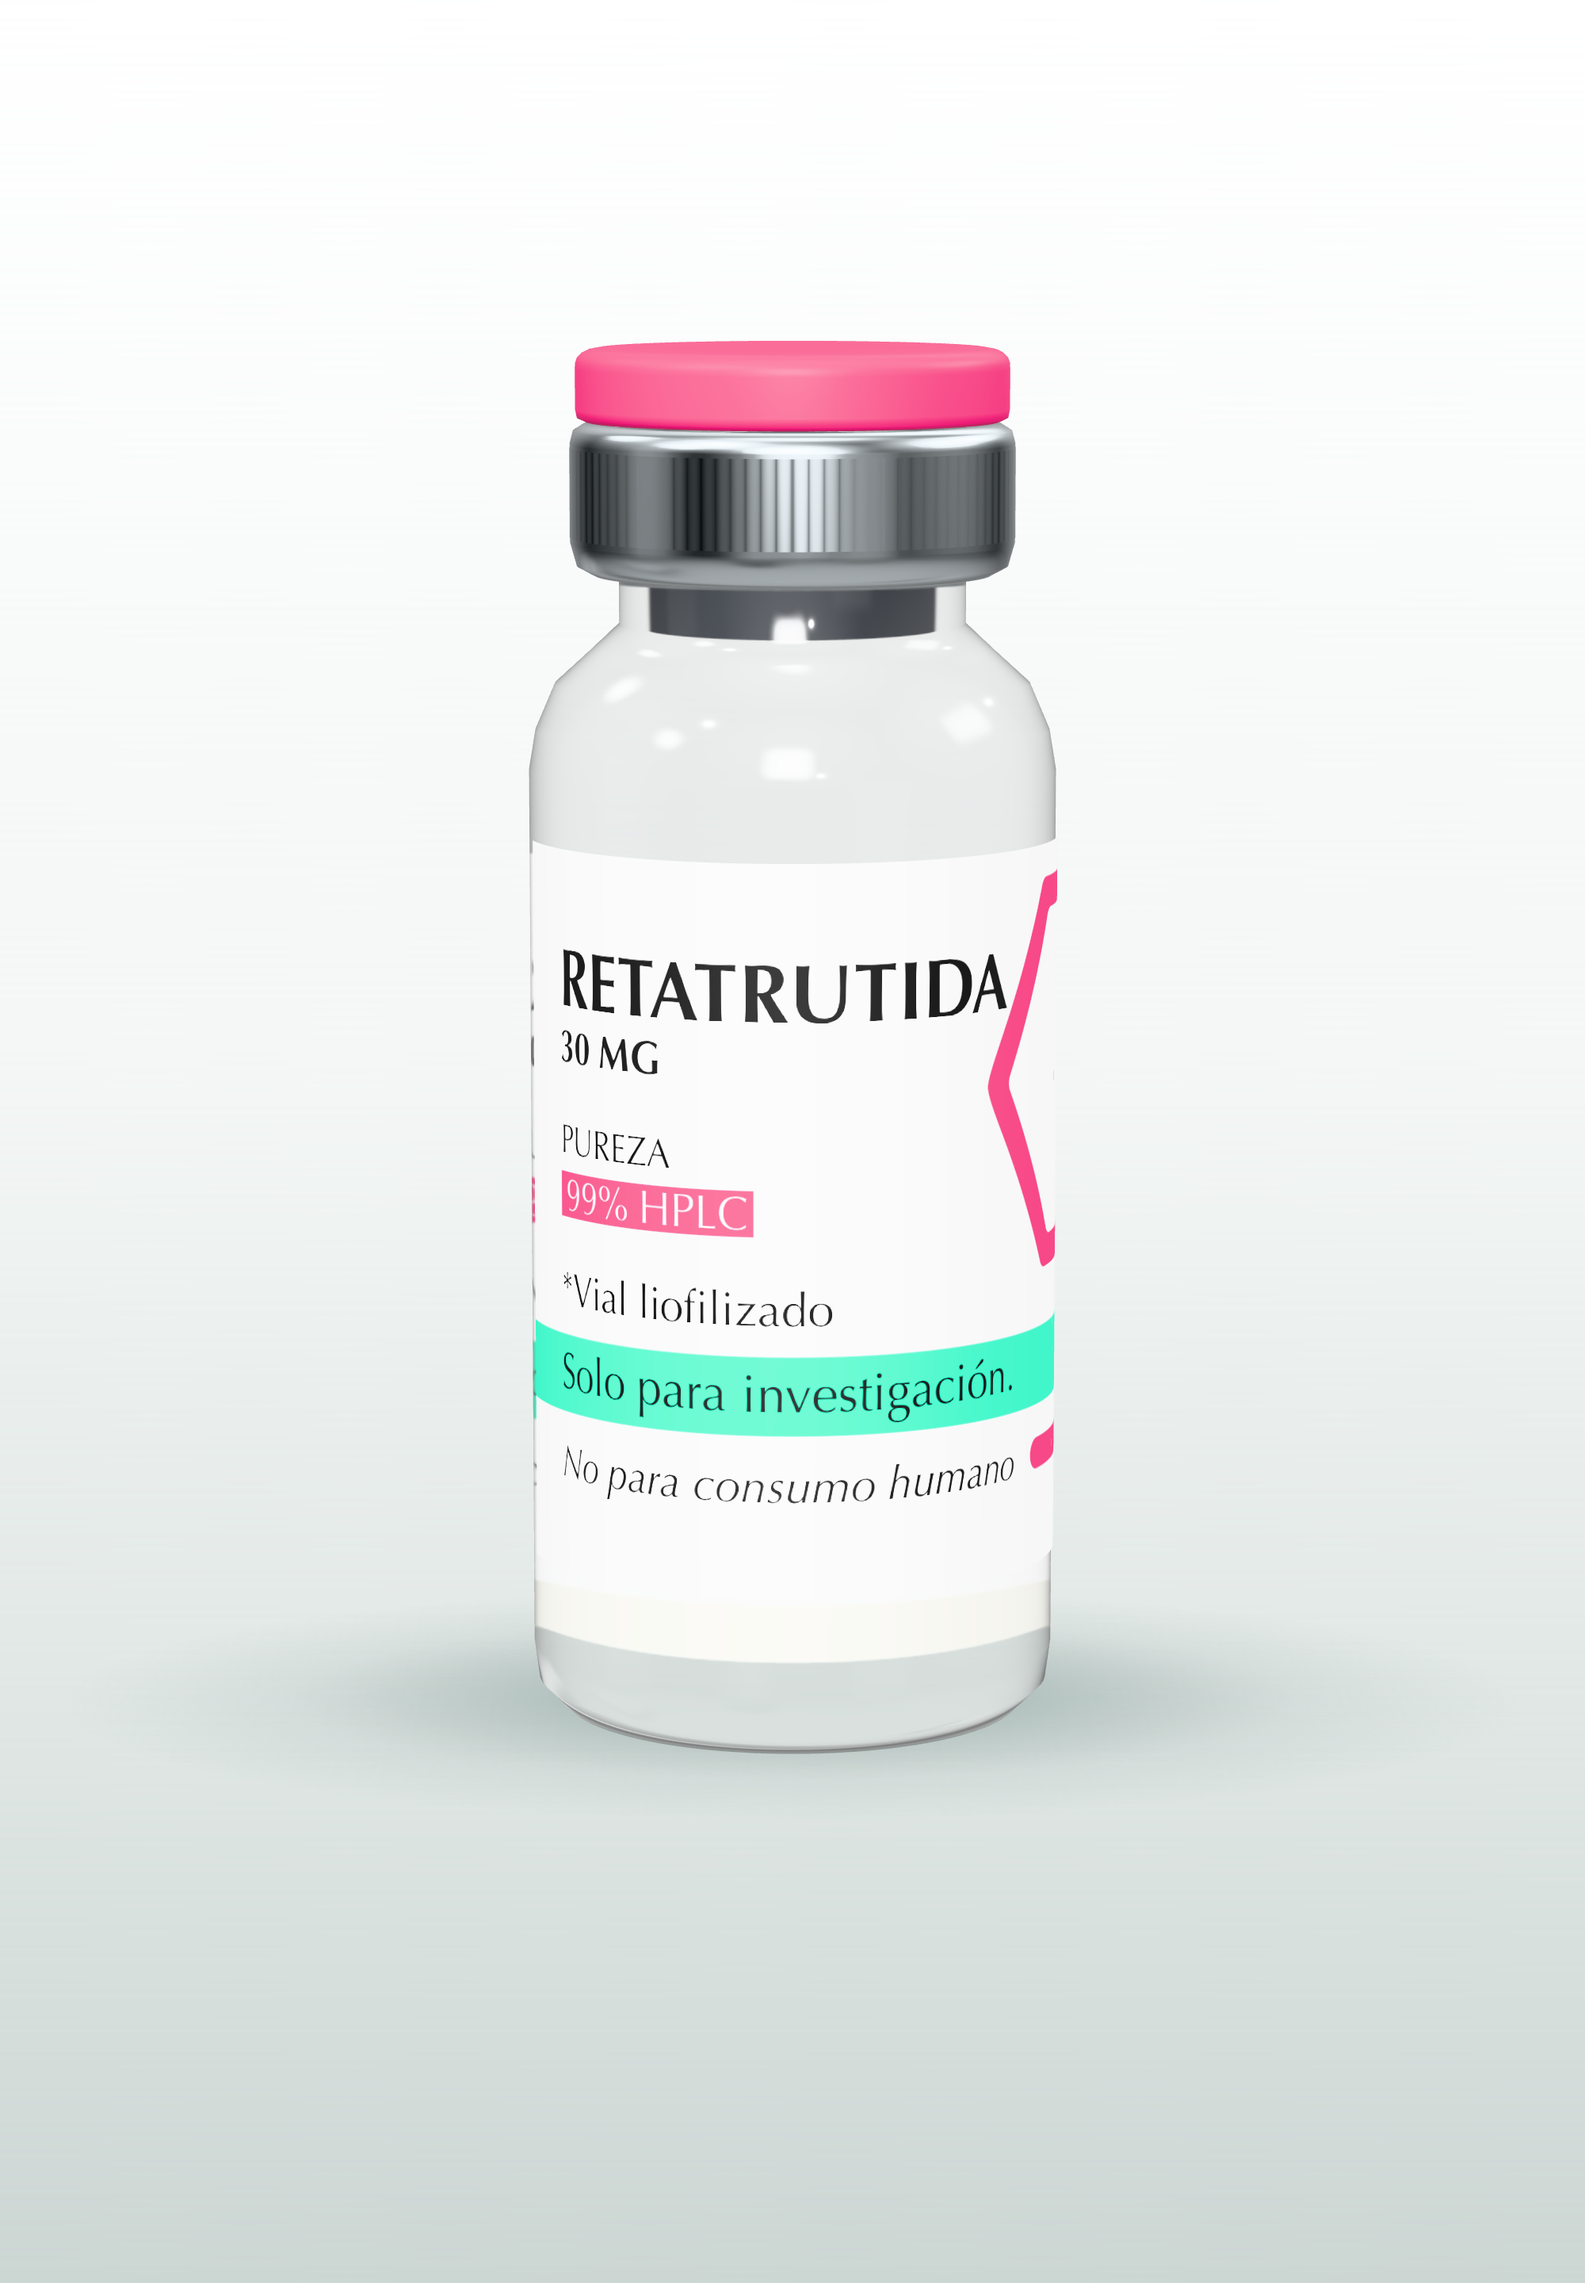
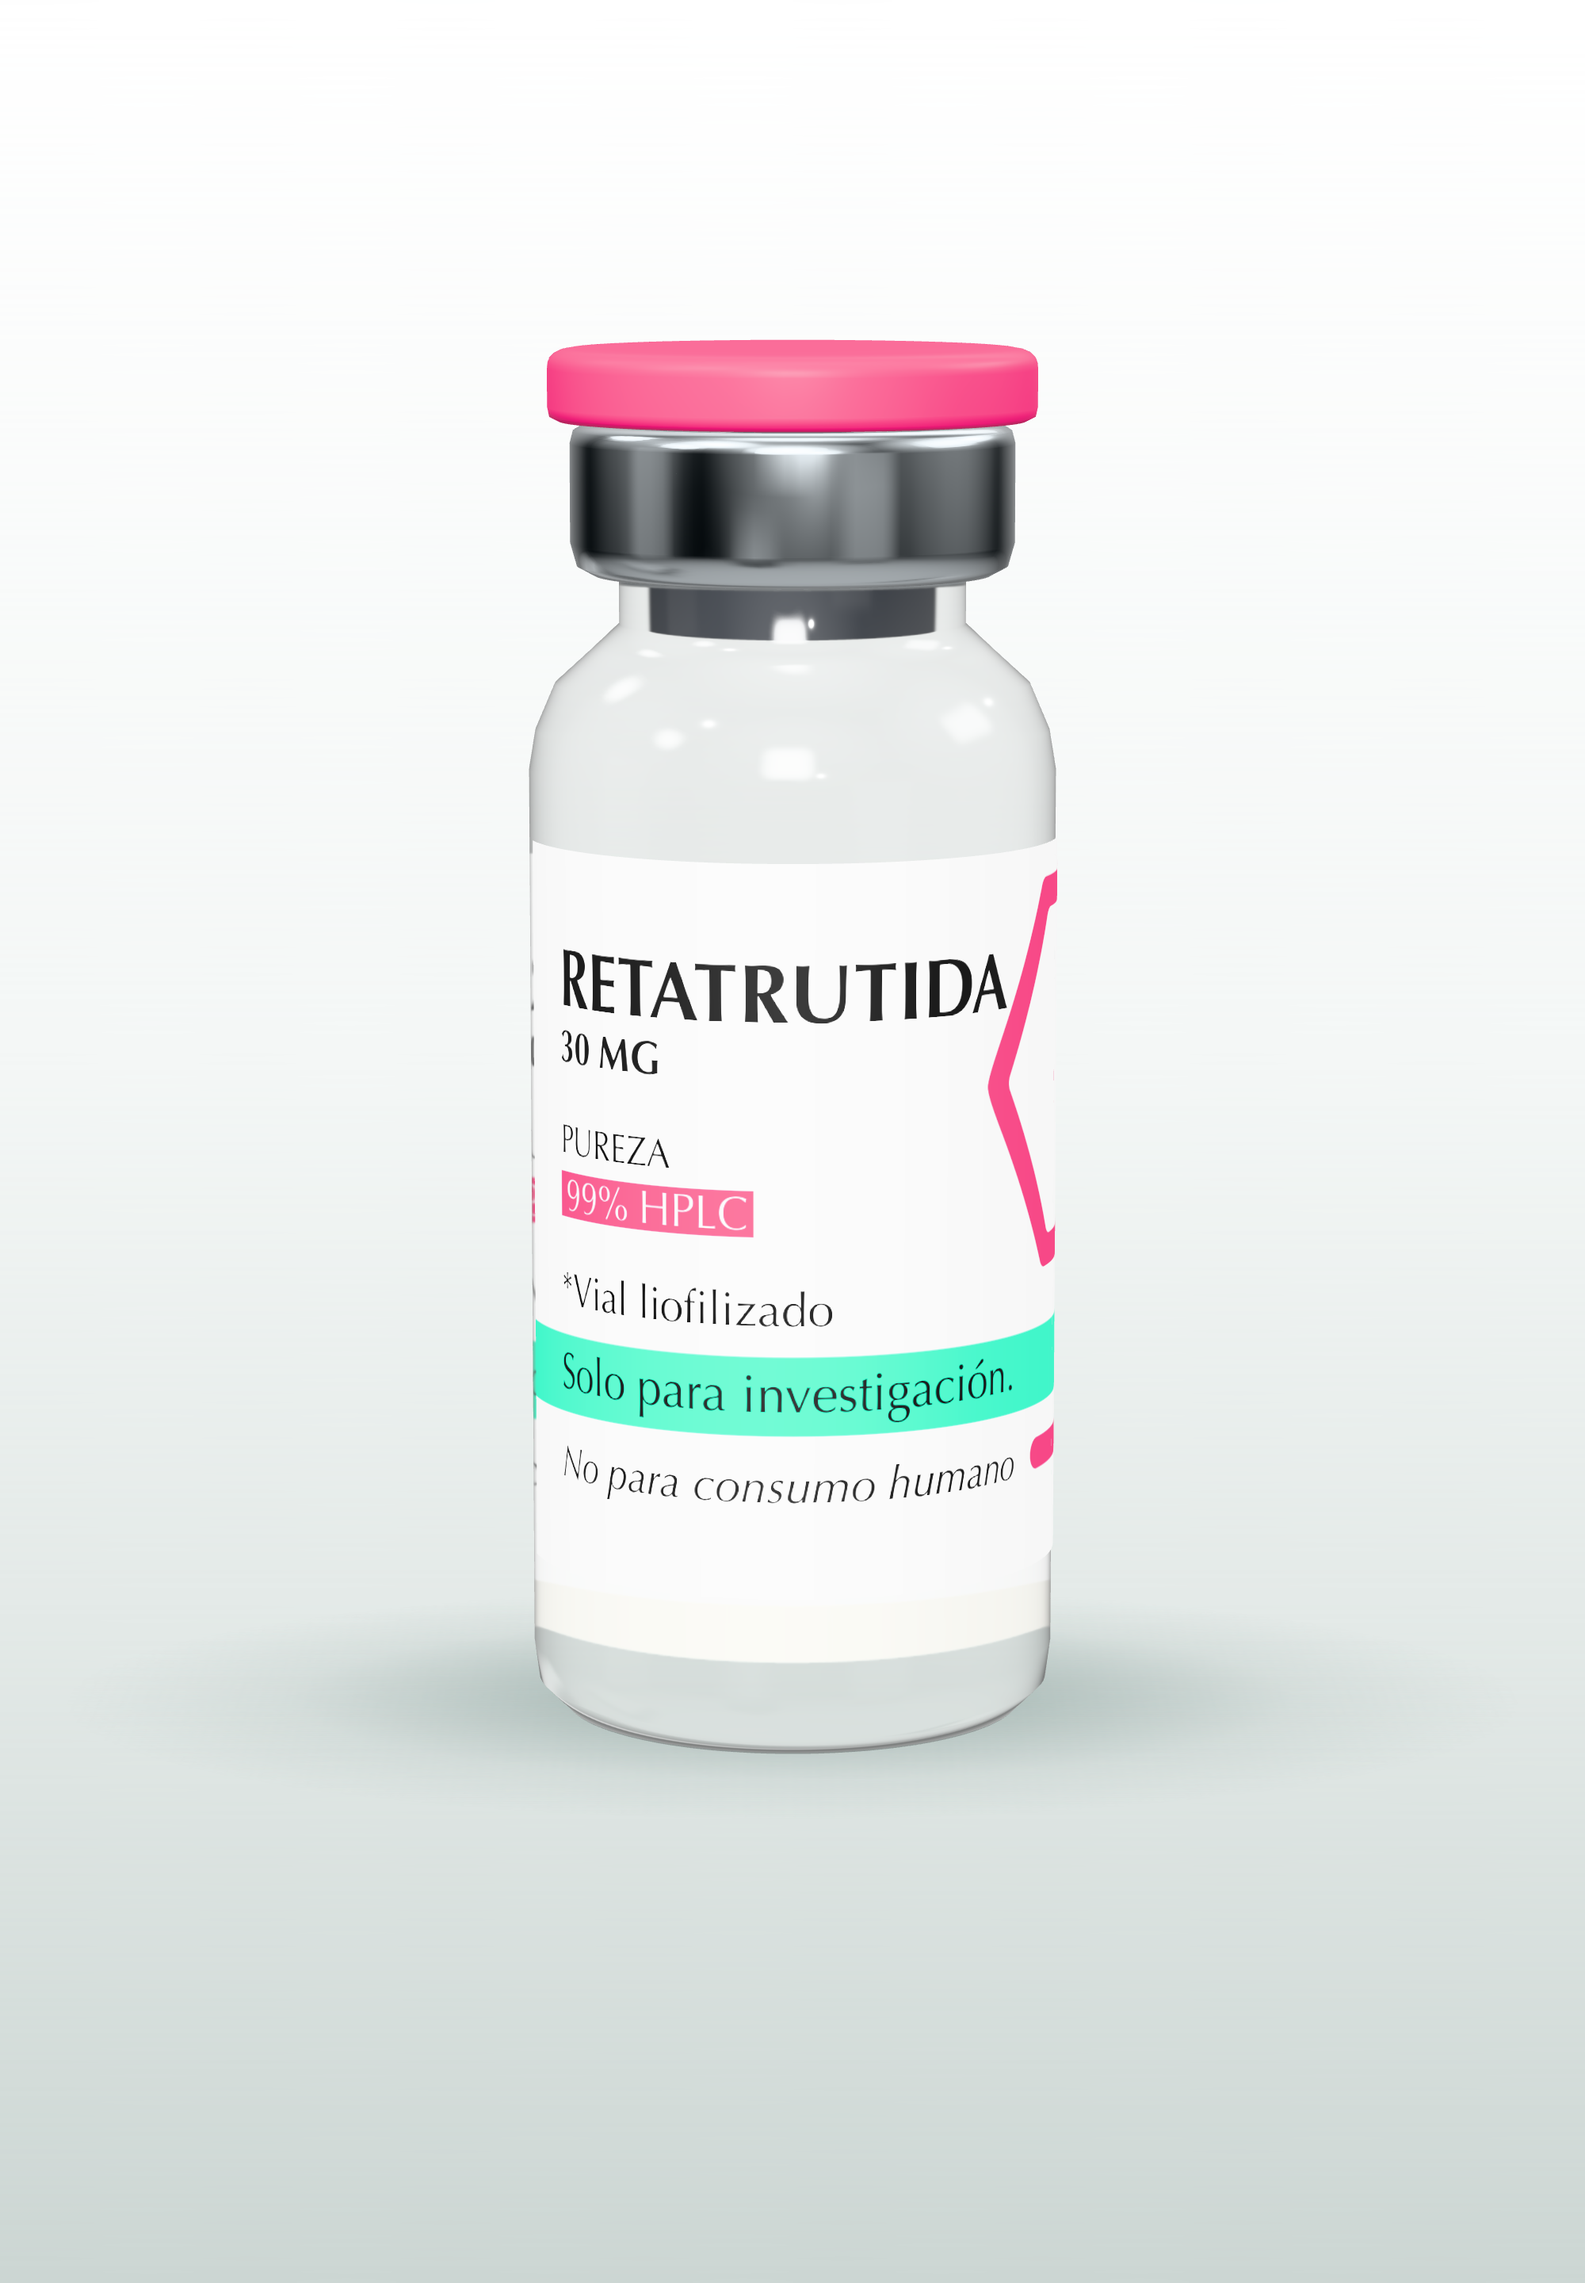
fix(mocks): el flip-off sobresale al 110% y el aluminio va liso
El botón pasa de 6.55 a 7.39, que es el 110 % del sello de 6.72: a ras o por
debajo se lee como botón hundido.

Se quitan las estrías verticales del engaste. El roughnessMap de estriado y el
cilindro de falda que lo portaba desaparecen; la falda se resuelve solo con el
torneado y rugosidad 0.19, que da el degradado horizontal de metal pulido.

Claude-Session: https://claude.ai/code/session_01WYKnPW9vsfA4iToczreM7S

Changed region(s): [[0.372, 0.1875, 0.558, 0.25], [0.62, 0.1562, 0.682, 0.1875], [0.341, 0.1562, 0.372, 0.1875]]

diff --git a/rediseno/mocks/generar-vial-3d.html b/rediseno/mocks/generar-vial-3d.html
@@ -102,45 +102,26 @@ const sealPts = [
 ];
 const sealGeo = new THREE.LatheGeometry(sealPts, 320);
 const seal = new THREE.Mesh(sealGeo, new THREE.MeshStandardMaterial({
-  color: 0xc9d0d4, metalness: 1, roughness: 0.26,
+  color: 0xc9d0d4, metalness: 1, roughness: 0.19,
   side: THREE.DoubleSide, envMapIntensity: 1.35,
 }));
 scene.add(seal);
 
-// Estrías del engaste: finas y solo en la falda, como las deja la crimpadora
-const ridgeCan = document.createElement('canvas'); ridgeCan.width = 1024; ridgeCan.height = 4;
-const rCtx = ridgeCan.getContext('2d');
-for (let i = 0; i < 1024; i++) {
-  const v = 150 + Math.round(105 * Math.pow(Math.abs(Math.sin(i * Math.PI / 11)), 0.6));
-  rCtx.fillStyle = 'rgb(' + v + ',' + v + ',' + v + ')';
-  rCtx.fillRect(i, 0, 1, 4);
-}
-const ridgeTex = new THREE.CanvasTexture(ridgeCan);
-ridgeTex.wrapS = ridgeTex.wrapT = THREE.RepeatWrapping;
-const skirt = new THREE.Mesh(
-  new THREE.CylinderGeometry(6.73, 6.73, 2.7, 320, 1, true),
-  new THREE.MeshStandardMaterial({
-    color: 0xc4cbcf, metalness: 1, roughness: 0.3,
-    roughnessMap: ridgeTex, envMapIntensity: 1.3, side: THREE.DoubleSide,
-  }));
-skirt.position.y = 37.35;
-scene.add(skirt);
-
 // ── Flip-off: botón abombado y estrecho, no un disco del ancho del sello
 const flipPts = [
   new THREE.Vector2(0.01, 41.70),
-  new THREE.Vector2(3.40, 41.70),
-  new THREE.Vector2(5.30, 41.69),   // tapa plana hasta muy cerca del canto
-  new THREE.Vector2(5.90, 41.67),
-  new THREE.Vector2(6.16, 41.62),
-  new THREE.Vector2(6.35, 41.53),   // canto redondeado, 7 puntos
-  new THREE.Vector2(6.48, 41.40),
-  new THREE.Vector2(6.54, 41.24),
-  new THREE.Vector2(6.55, 41.06),
-  new THREE.Vector2(6.55, 39.86),   // falda del botón
-  new THREE.Vector2(6.50, 39.60),
-  new THREE.Vector2(6.24, 39.48),
-  new THREE.Vector2(0.01, 39.48),
+  new THREE.Vector2(3.80, 41.70),
+  new THREE.Vector2(6.00, 41.69),   // tapa plana
+  new THREE.Vector2(6.72, 41.67),
+  new THREE.Vector2(6.99, 41.62),
+  new THREE.Vector2(7.18, 41.53),   // canto redondeado, 7 puntos
+  new THREE.Vector2(7.31, 41.40),
+  new THREE.Vector2(7.37, 41.24),
+  new THREE.Vector2(7.39, 41.06),
+  new THREE.Vector2(7.39, 39.92),   // sobresale sobre el aluminio
+  new THREE.Vector2(7.33, 39.64),
+  new THREE.Vector2(7.05, 39.50),
+  new THREE.Vector2(0.01, 39.50),
 ];
 const flipGeo = new THREE.LatheGeometry(flipPts, 320);
 const flip = new THREE.Mesh(flipGeo, new THREE.MeshPhysicalMaterial({

diff --git a/rediseno/mocks/README.md b/rediseno/mocks/README.md
@@ -42,9 +42,13 @@ que deja el bloque de texto de frente.
 Anatomía real de un sello flip-off, que la primera versión tenía mal: corona
 plana de aluminio con hueco central, falda con estrías finas (por `roughnessMap`,
 no por geometría) y rizo por debajo de la pestaña de vidrio. El botón de plástico es **ancho y de tapa plana**, no una cúpula estrecha:
-va **a ras del engaste**: radio 6.55 sobre un sello de 6.72, apoyado sobre la
-corona, dejando solo un filo de aluminio a la vista. A 5.6 se veía notoriamente
-más angosto que el aluminio, que es el fallo que delataba el render. Comprobado
+**sobresale** sobre el engaste: radio 7.39, el 110 % del sello (6.72), apoyado
+encima de la corona. Cualquier cosa por debajo del 100 % se lee como botón
+hundido y delata el render.
+
+El aluminio va **liso**, sin estrías verticales: el `roughnessMap` de estriado
+se quitó y la falda se resuelve solo con el torneado y la rugosidad baja (0.19),
+que da el degradado horizontal de metal pulido. Comprobado
 contra foto de un flip-off real.
 
 El canto del botón se redondea con **siete puntos de perfil**, no con dos: con
